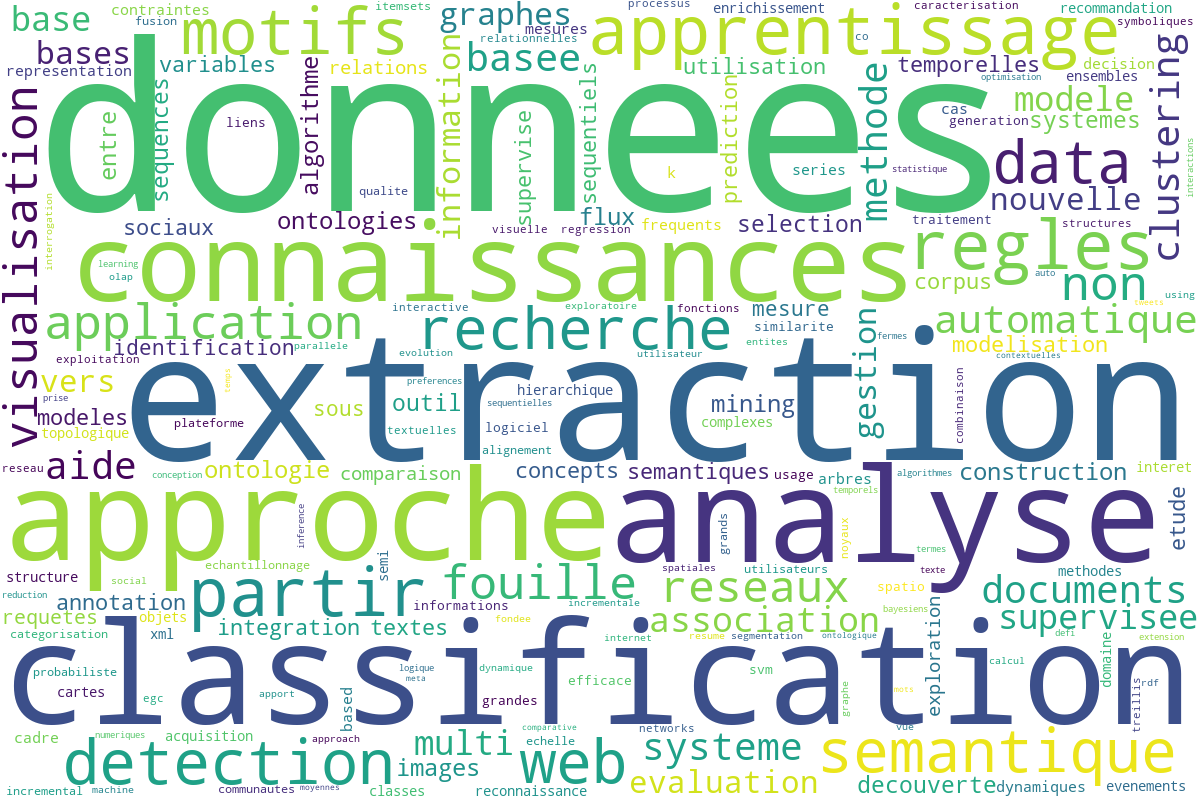
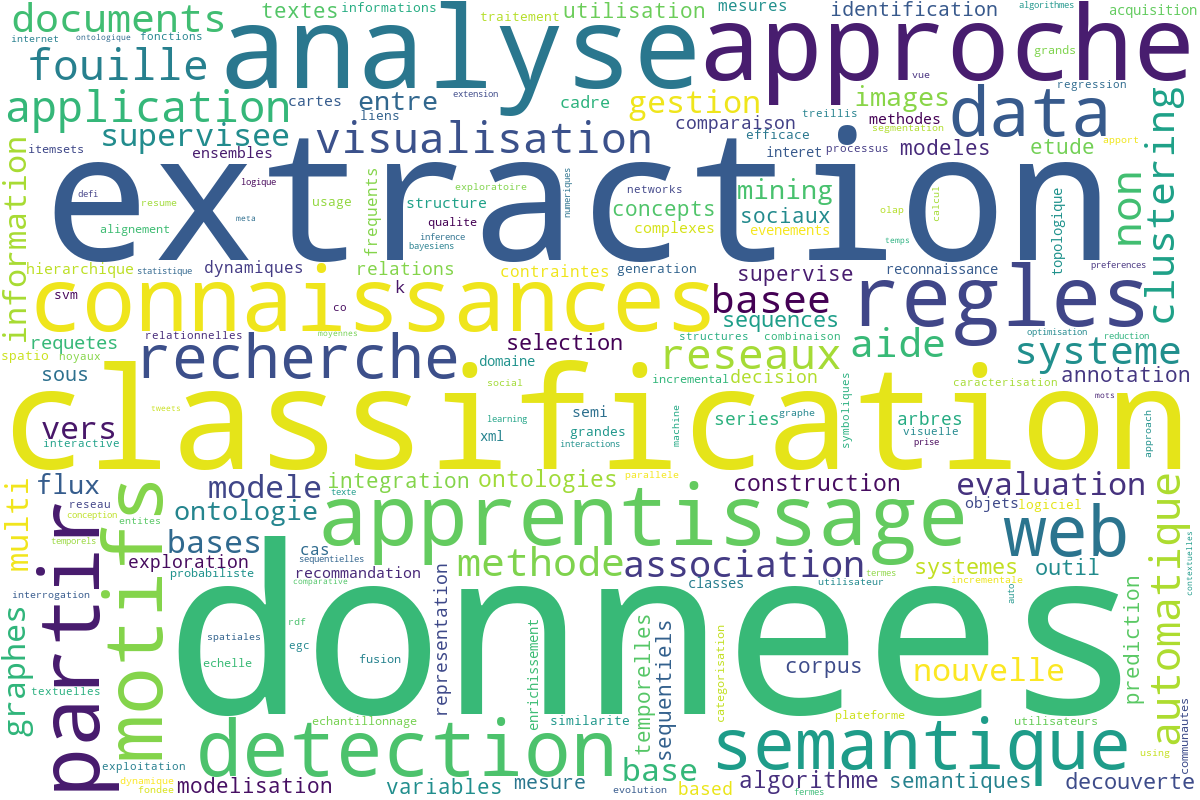
Correcting Parser_Article on pdf links Tried a wordcloud for abstract

diff --git a/src/Data_Analyser.py b/src/Data_Analyser.py
@@ -12,10 +12,23 @@ def create_bag_of_words_model_title():
             d[item] = d.get(item, 0) + 1
     return d
 
-def create_wordcloud():
-    frequencies = create_bag_of_words_model_title()
-    wc = WordCloud(background_color="white", width=1200, height=800)
-    wc.generate_from_frequencies(frequencies)
-    wc.to_file('../out/wordcloud_title.png')
+def create_bag_of_words_model_abstract():
+    d = dict()
+    list_articles = p.cleaning_articles()
+    for article in list_articles:
+        for item in article.abstract:
+            d[item] = d.get(item, 0) + 1
+    return d
 
-create_wordcloud()
+def create_wordcloud():
+    frequencies_title = create_bag_of_words_model_title()
+    frequencies_abstract = create_bag_of_words_model_abstract()
+
+    wc_title = WordCloud(background_color='white', width=1200, height=800)
+    wc_abstract = WordCloud(background_color='white', width=1200, height=800, max_words=100)
+
+    wc_title.generate_from_frequencies(frequencies_title)
+    wc_abstract.generate_from_frequencies(frequencies_abstract)
+
+    wc_abstract.to_file('../out/wordcloud_abstract.png')
+    wc_title.to_file('../out/wordcloud_title.png')

diff --git a/src/Parser_Article.py b/src/Parser_Article.py
@@ -115,6 +115,10 @@ def cleaning_articles():
         for elem in art.authors.split():
             elem = strip_accents(elem)
             list_authors.append(elem)
+        for elem in art.pdf1page.split():
+            list_pdf1page.append(elem)
+        for elem in art.pdfarticle.split():
+            list_pdfarticle.append(elem)
 
         '''
 		Removal of stopwords

diff --git a/src/Main.py b/src/Main.py
@@ -1,7 +1,9 @@
 import Parser_Article as p
+import Data_Analyser as d
 
 articles = p.cleaning_articles()
 i = 0
 for elem in articles:
 	i += 1
 	print(i, elem)
+d.create_wordcloud()
